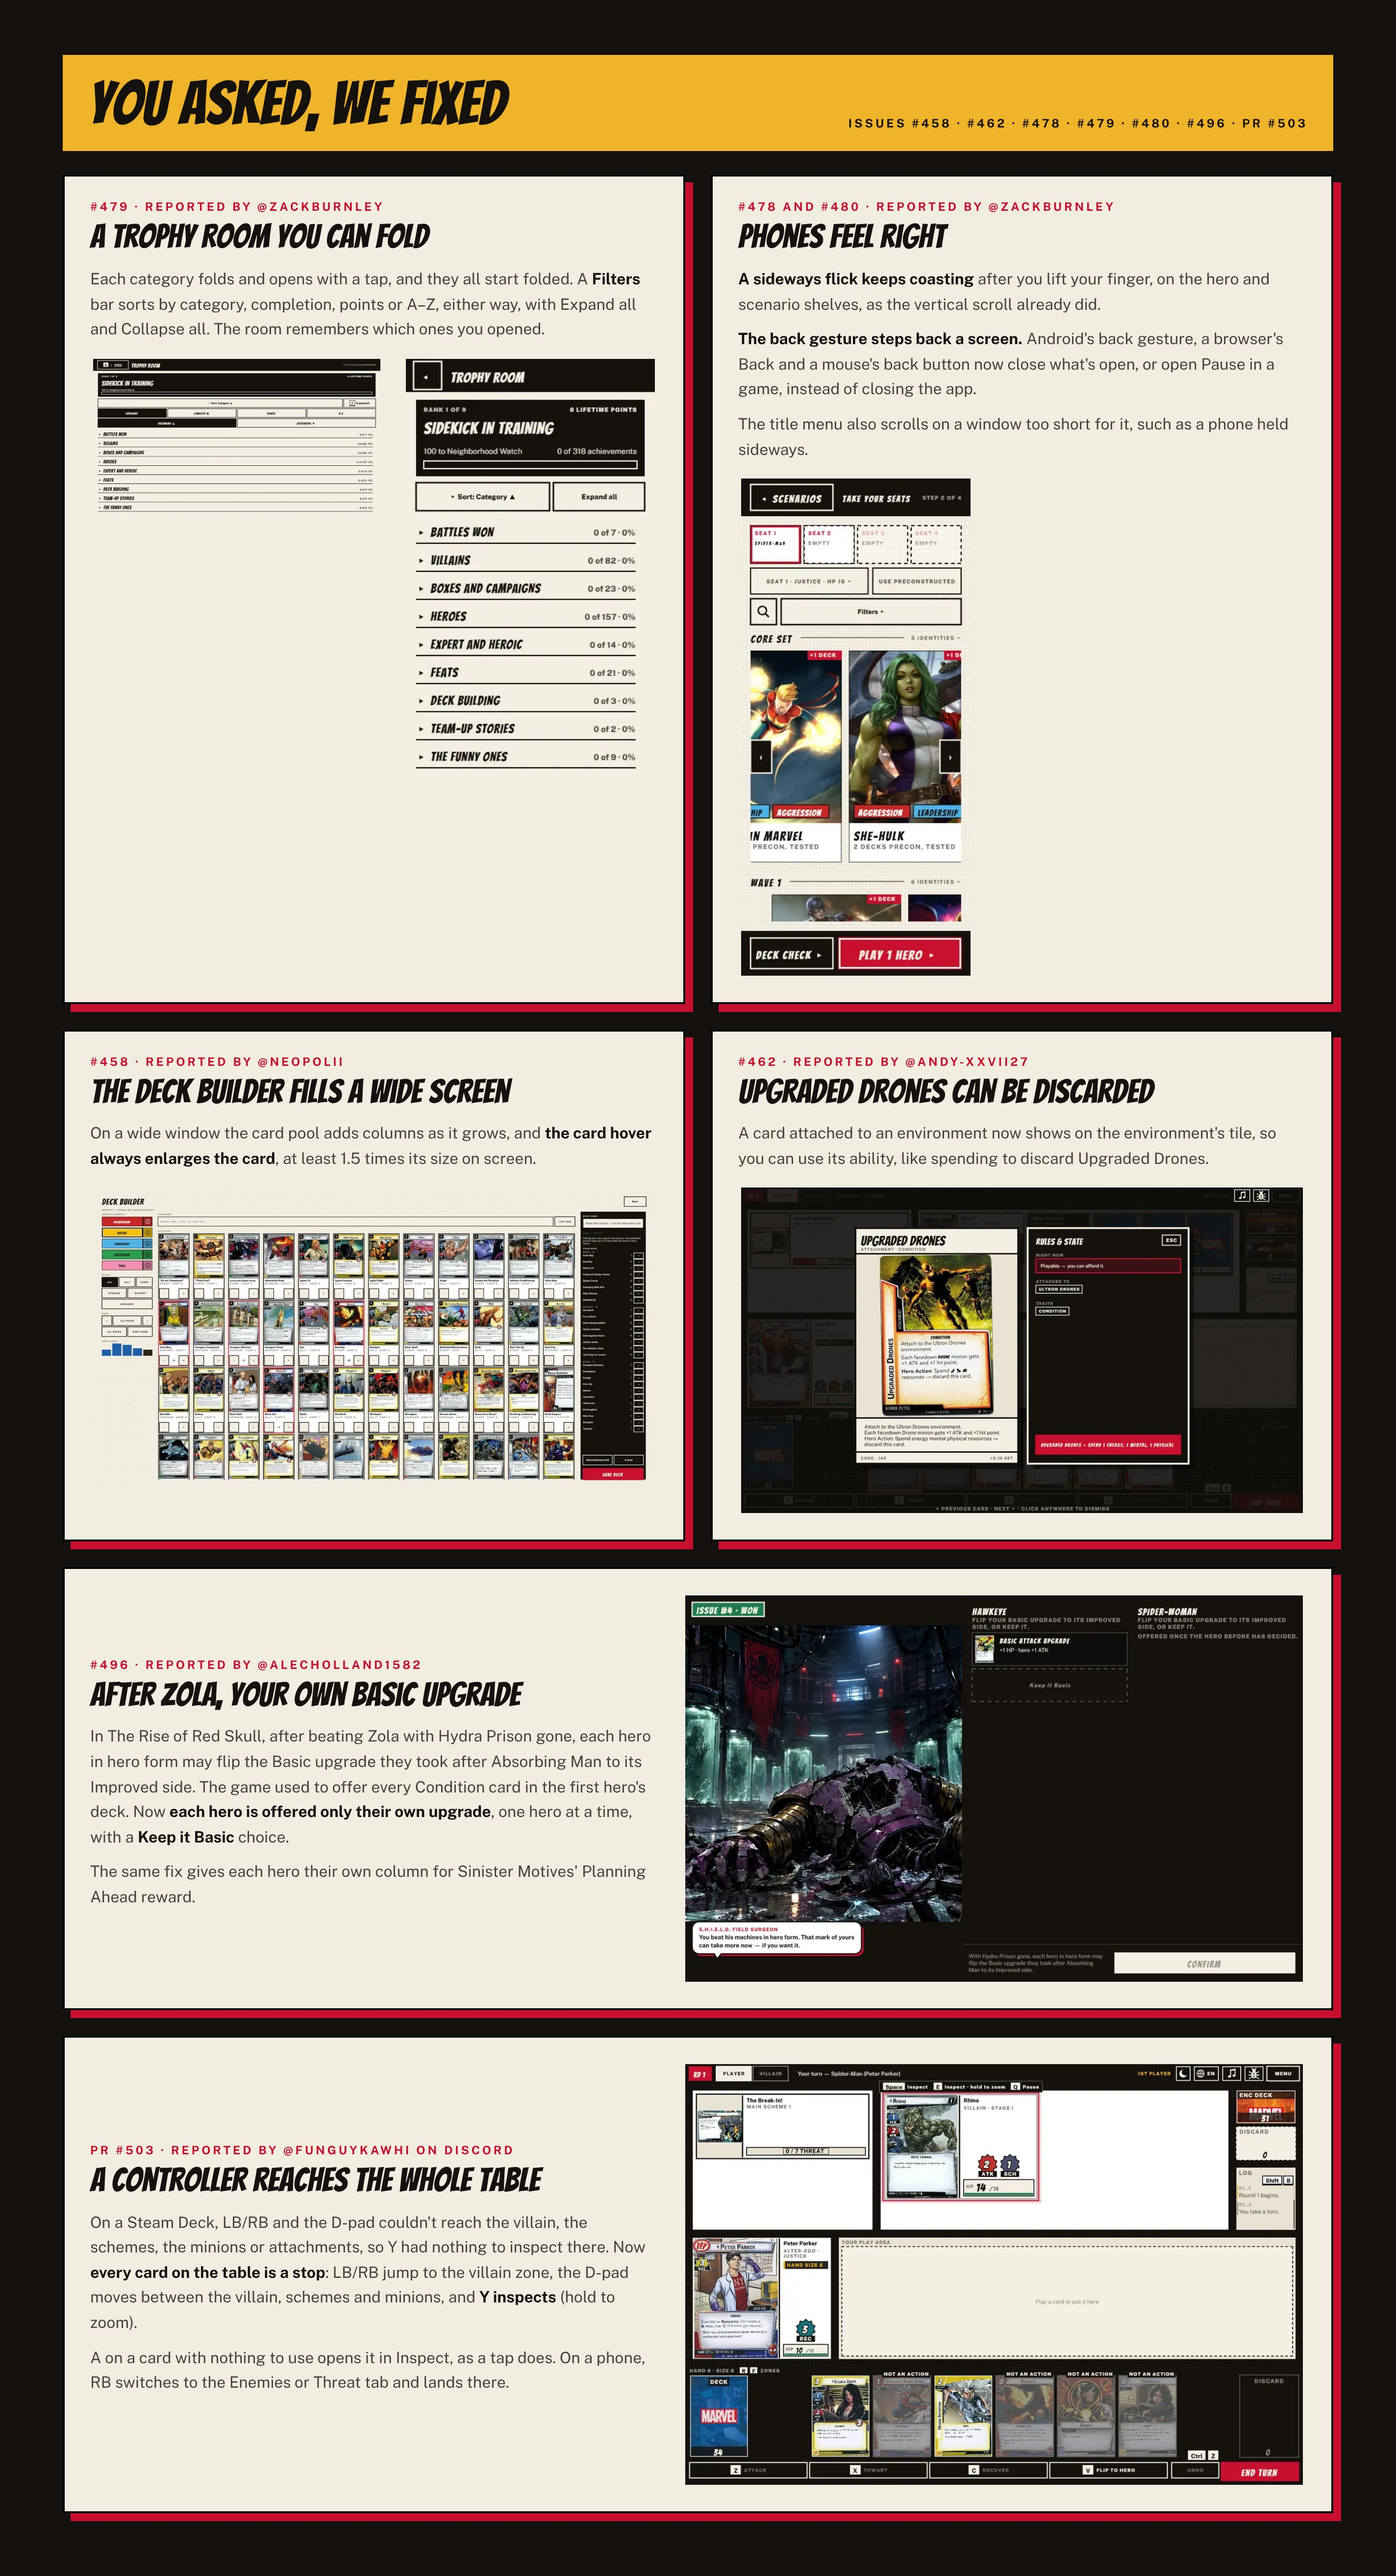
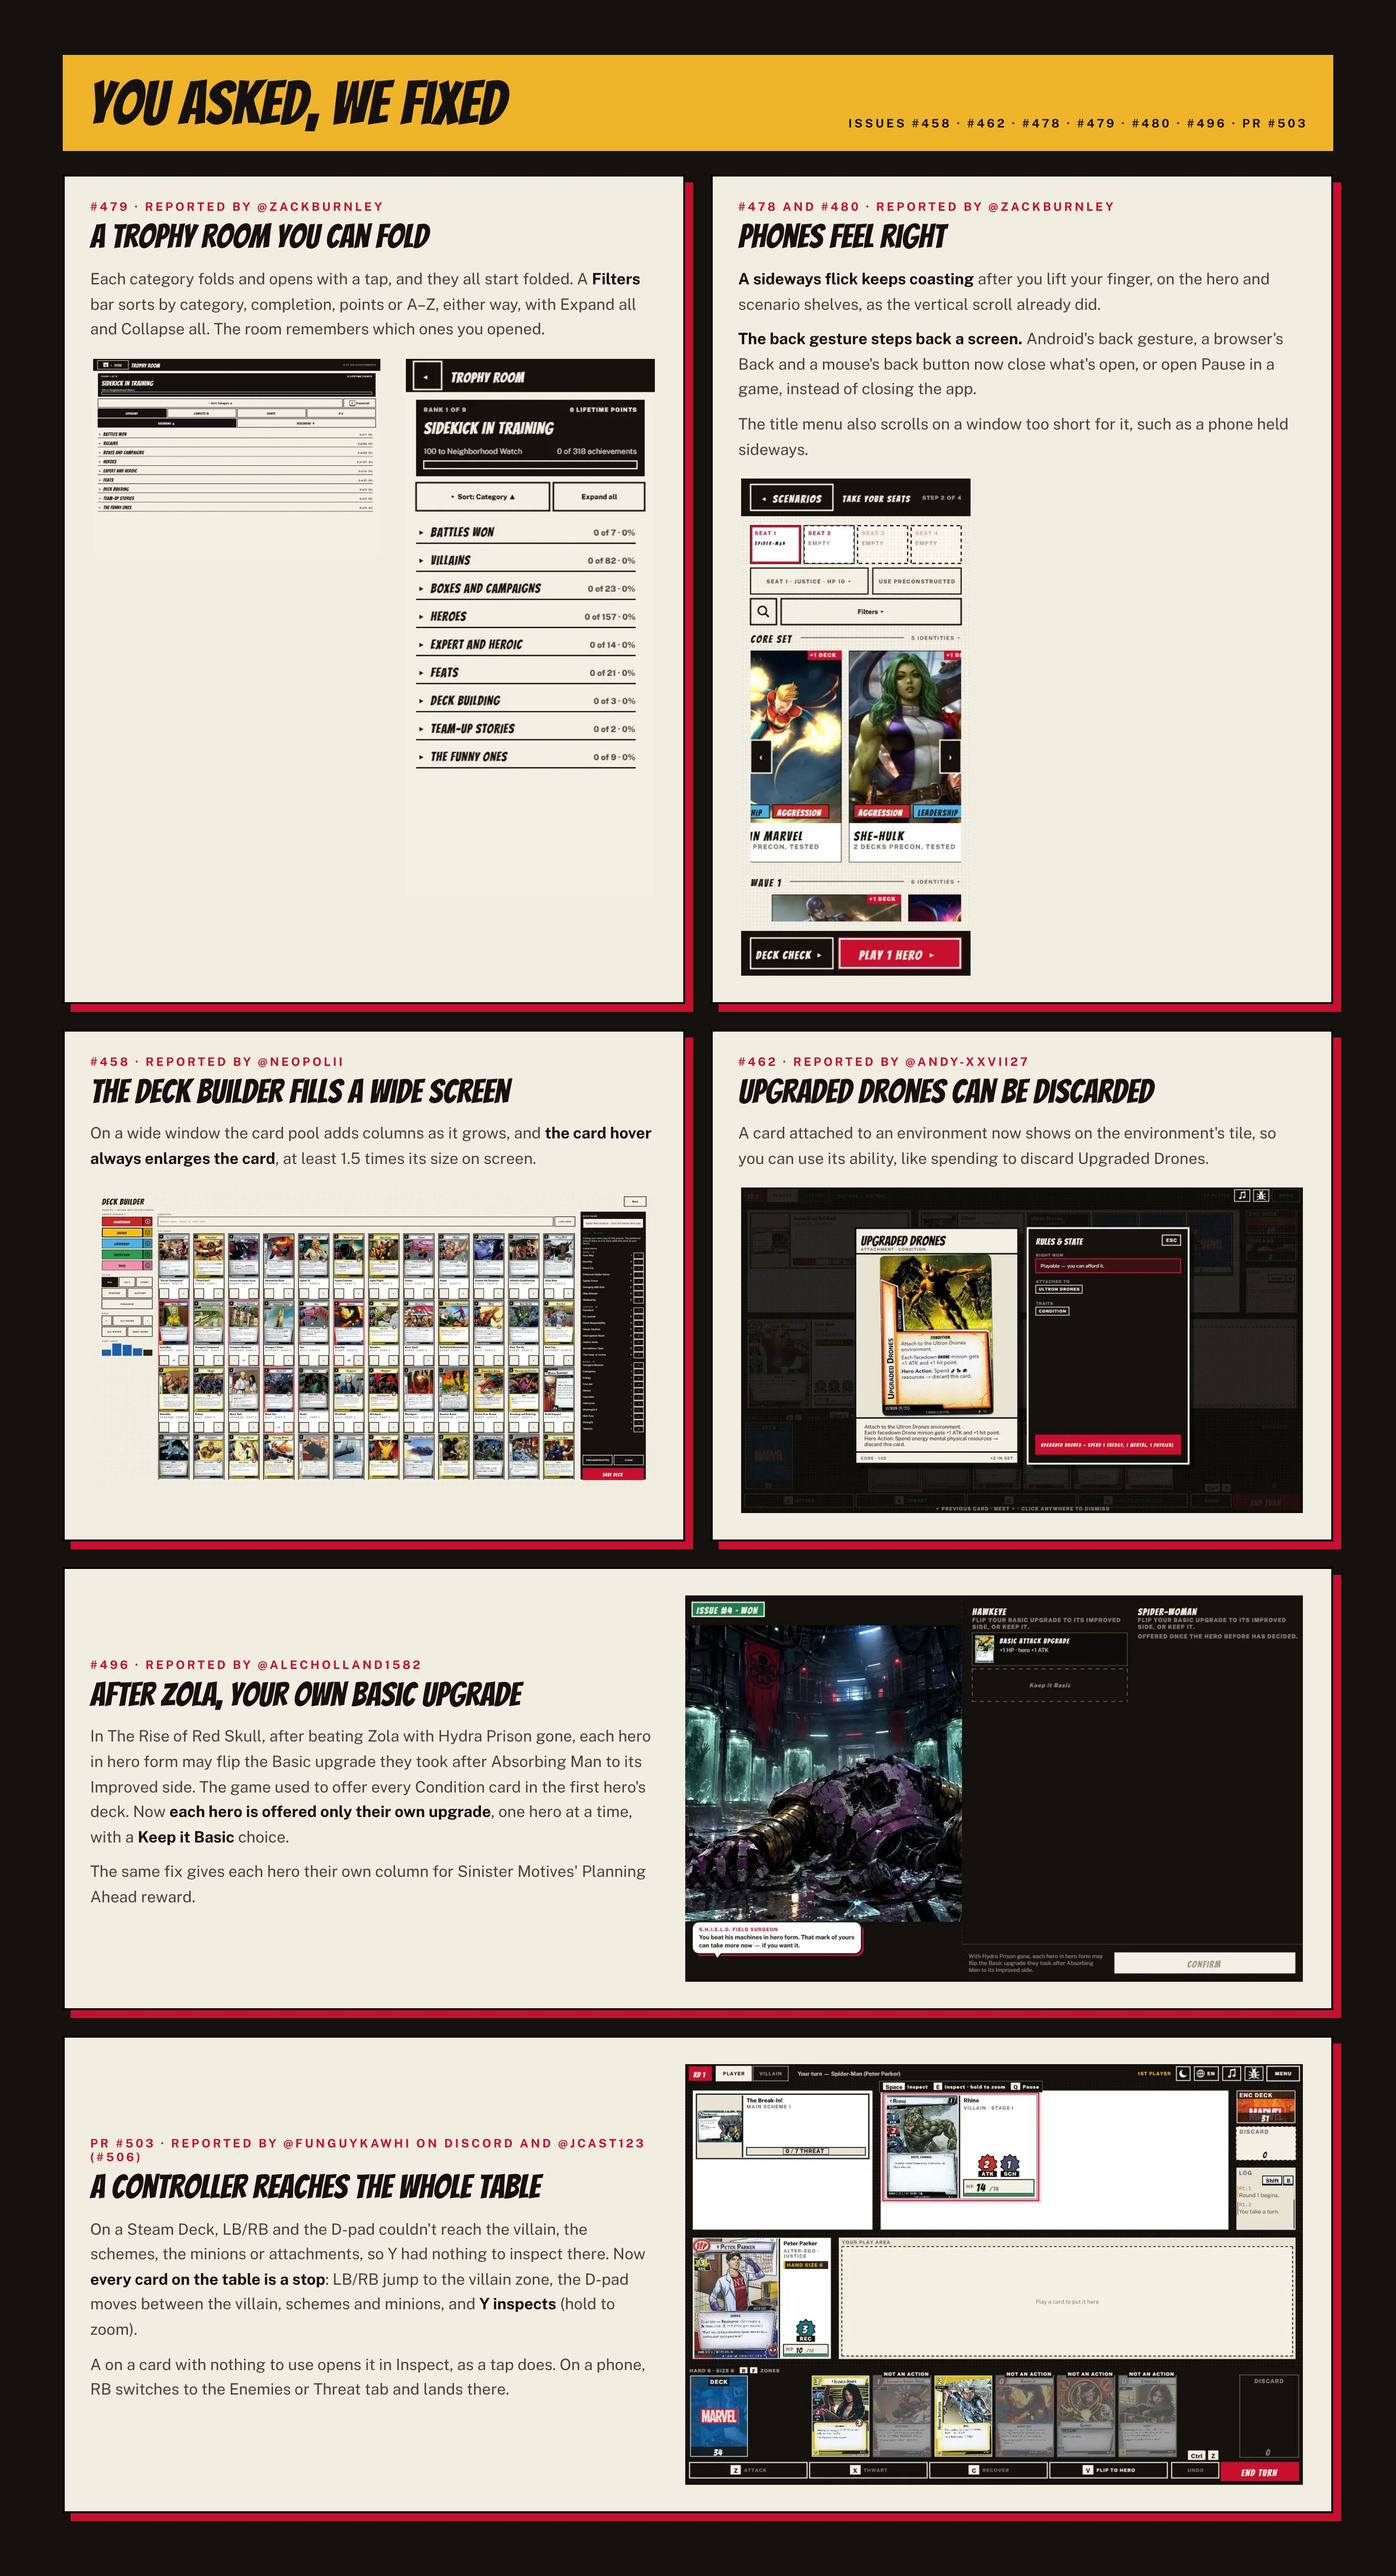
Credit @jcast123 for the controller fix (#506) (#507)
* Credit the controller table-focus fix to its issue (#506)

* Credit @jcast123 (#506) in the v0.39.0 release report

* Credit @jcast123 in the v0.39.0 release-notes header

Changed region(s): [[0.0625, 0.8116, 0.4375, 0.9364]]

diff --git a/packages/client/public/releases/v0.39.0/index.html b/packages/client/public/releases/v0.39.0/index.html
@@ -624,7 +624,7 @@
         <div class="tile">
           <h4>Fixes</h4>
           <div class="n c-red">29</div>
-          <p>Rules, controller, phone, desktop and campaign fixes from seven players' reports and the audit.</p>
+          <p>Rules, controller, phone, desktop and campaign fixes from eight players' reports and the audit.</p>
         </div>
         <div class="tile">
           <h4>Rulings applied</h4>
@@ -992,7 +992,7 @@
         </div>
         <div class="paper wide">
           <div>
-            <div class="eb">PR #503 · reported by @funguykawhi on Discord</div>
+            <div class="eb">PR #503 · reported by @funguykawhi on Discord and @jcast123 (#506)</div>
             <h3>A controller reaches the whole table</h3>
             <p>
               On a Steam Deck, LB/RB and the D-pad couldn't reach the villain, the schemes, the minions or attachments,
@@ -1149,6 +1149,10 @@
             <p>Reported on Discord that a controller couldn't reach the villain or schemes (<b>#503</b>).</p>
           </div>
           <div class="person">
+            <h3>@jcast123</h3>
+            <p>Reported the same controller bug in <b>#506</b>.</p>
+          </div>
+          <div class="person wide">
             <h3>alaintxu</h3>
             <p>Made the <b>mc-ocr</b> Spanish card scans and let us use them.</p>
           </div>

diff --git a/docs/screenshots/releases/v0.39.0/release-notes-header.md b/docs/screenshots/releases/v0.39.0/release-notes-header.md
@@ -1,7 +1,7 @@
 ## Lights down. ¡Cartas en español!
 
-Dark mode is here: tap the moon at the top of any screen, or turn on Settings ▸ Display ▸ Dark mode, and the light screens and popups turn warm charcoal while your card art stays exactly as printed (#459, asked for by @neopolii). Every installer and the APK now also comes in Spanish (look for -ES- in the file name), with 4,053 of the 4,312 cards in their Spanish printing from alaintxu's mc-ocr scans, and the web version switches language with a globe button (#337, asked for by @AntonioAPG). Part 5 of the rules audit by @bluefireF5ran brings a new response window and seven more rulings (#410). Thanks to @zackburnley (#478, #479, #480), @neopolii (#458, #485), @andy-xxvii27 (#462), @AlecHolland1582 (#496) and @funguykawhi on Discord (#503) for the reports: the Trophy Room folds and sorts, shelves keep coasting after a flick, the back gesture steps back a screen, the deck builder fills a wide window, each hero gets their own Basic upgrade after Zola, a controller reaches the villain and schemes, and Spider-Man, Captain Marvel, Black Panther and Nebula get clean new scans.
+Dark mode is here: tap the moon at the top of any screen, or turn on Settings ▸ Display ▸ Dark mode, and the light screens and popups turn warm charcoal while your card art stays exactly as printed (#459, asked for by @neopolii). Every installer and the APK now also comes in Spanish (look for -ES- in the file name), with 4,053 of the 4,312 cards in their Spanish printing from alaintxu's mc-ocr scans, and the web version switches language with a globe button (#337, asked for by @AntonioAPG). Part 5 of the rules audit by @bluefireF5ran brings a new response window and seven more rulings (#410). Thanks to @zackburnley (#478, #479, #480), @neopolii (#458, #485), @andy-xxvii27 (#462), @AlecHolland1582 (#496) @funguykawhi on Discord (#503) and @jcast123 (#506) for the reports: the Trophy Room folds and sorts, shelves keep coasting after a flick, the back gesture steps back a screen, the deck builder fills a wide window, each hero gets their own Basic upgrade after Zola, a controller reaches the villain and schemes, and Spider-Man, Captain Marvel, Black Panther and Nebula get clean new scans.
 
-![The numbers: 4,053 Spanish card scans, dark mode in one tap, 29 fixes, 8 rulings, 623 browser tests, 318 achievements and 4 heroes rescanned](https://raw.githubusercontent.com/quincarter/marvel-champions-digital-game/526617cf857a78bb1abd2397f416ead1d2e4cb7b/docs/screenshots/releases/v0.39.0/v0-39-0-release-01-the-numbers.jpg)
+![The numbers: 4,053 Spanish card scans, dark mode in one tap, 29 fixes, 8 rulings, 623 browser tests, 318 achievements and 4 heroes rescanned](https://raw.githubusercontent.com/quincarter/marvel-champions-digital-game/5720ee39dd95c798650a26749264413621b8cb17/docs/screenshots/releases/v0.39.0/v0-39-0-release-01-the-numbers.jpg)
 
 **[Read the full v0.39.0 report on the site ↗](https://marvel-champions-digital-game.netlify.app/releases/v0.39.0/)**: dark mode, cartas en español, rules audit part 5, every fix with screenshots, and the thank-you wall.
